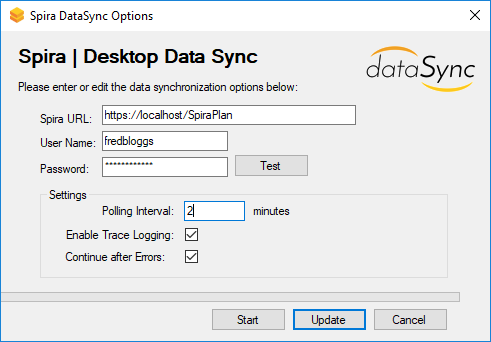
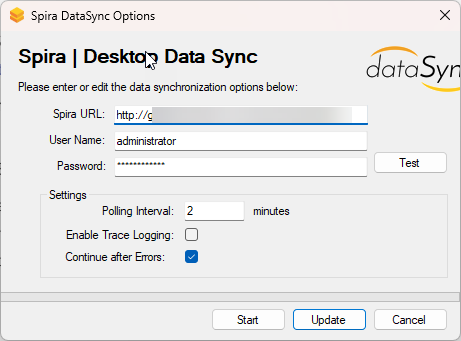
Merge pull request #50 from ninodiasamidze/Datasync-Setup---New
Datasync Setup

Pull request: Datasync Setup
Rewrite

diff --git a/docs/External-Bug-Tracking-Integration/Setting-up-Data-Synchronization.md b/docs/External-Bug-Tracking-Integration/Setting-up-Data-Synchronization.md
@@ -2,22 +2,40 @@
 !!! abstract "Compatible with SpiraTest, SpiraTeam, SpiraPlan"
 
 ## Introduction
-To use any of Inflectra's data sync integrations, you need a special data sync service. This lives outside of Spira and the application it is syncing with. The data sync service needs to run 24/7 to keep everything in sync. It needs to be able to "see" both applications. In addition to the service, there are dedicated plugins for the most popular third-party applications.These plugins work with the data sync service to manage all communication between Spira and the application(s) it syncs with.
 
-We provide you with three different options for this service to sync things for you: 
+To enable data synchronization between Spira and external bug-tracking or agile planning tools, Inflectra utilizes a dedicated Data Synchronization Service. 
 
-- **Cloud** with "Spira Datasync", which runs in Inflectra's cloud
-- built-in **service** with on premise Spira
-- as a standalone "**Desktop** Datasync" application you run on your own server
+This service operates independently of both Spira and your external application. It runs continuously in the background, meaning it must have network access to communicate with both systems simultaneously and needs to run 24/7 to keep everything in sync.
 
-This guide explains what option is right for you, and then gives how to instructions for each of the above 3 options.
+While the service acts as the core engine, it relies on application-specific plugins (such as those for Jira, Azure DevOps, or GitLab). These plugins work alongside the DataSync service to translate the data and manage the exact communication protocols between Spira and your chosen third-party tool.
 
-!!! warning
-    After completing the relevant steps in this guide, make sure to refer to the documentation on this site for the specific application you are syncing with. That will explain how to configure Spira itself for the data sync to work correctly for you.
+Depending on your hosting environment, Inflectra provides three distinct ways to deploy data synchronization:
 
-## Which option to choose
-The table below explains the different options available, as well the option we recommend for each use case. The uses cases vary based on where your Spira and the application Spira is syncing with live (in the cloud or managed by you on premise). 
+- **Cloud Spira DataSync:** A fully managed service that runs directly within Inflectra's secure cloud environment.
+- **On-premisess DataSync Service:** A built-in, background Windows Service included with on-premisess Spira installations.
+- **Desktop DataSync:** A standalone Windows application with a visual interface that you can install and run on your own local server or workstation.
 
+This guide will help you determine which of these three options best fits your architecture and then provide step-by-step instructions for setting up your chosen method.
+
+!!! warning 
+    Getting the service running is only the first half of the integration process. After completing the relevant setup steps in this guide, you must refer to the specific integration documentation for your external application. That documentation will explain how to configure the actual data mapping rules inside Spira, so the sync functions correctly.
+
+## Prerequisite: The Data Sync Service Account
+
+Regardless of which synchronization method you choose, you must provide valid credentials for the service to authenticate with Spira. 
+
+It is highly recommended that you create a **dedicated "Service Account"** user in Spira specifically for this purpose.
+
+To function correctly, this Spira user must meet the following criteria:
+
+- Active Status: The account must be active and have login access to Spira.
+- Dedicated Exclusivity: Do not use the personal credentials of a human team member. A dedicated service account ensures that changes made by the integration are clearly marked in the audit logs (e.g., "Updated by DataSync"), preventing confusion and making troubleshooting much easier.
+- Product Roles: The user must be explicitly added as a member of every Spira product you intend to synchronize.
+- Proper Product Roles: The user must be assigned a Product Role with sufficient permissions to view, create, and modify all artifacts involved in the sync. For example, if you are syncing bugs, the user needs "Create" and "Modify" permissions for Incidents. If they lack these permissions, the sync will fail when trying to write data.
+
+## Choosing Your Synchronization Method
+
+The table below explains the different options available, as well the option we recommend for each use case. The best option depends entirely on where your instance of Spira and your external application are hosted.
 
 | Spira Location | Application to sync with | Recommended data sync option | Other possible options |
 | -------------- | ------------------------ | ---------------------------- | ---------------------- |
@@ -26,94 +44,91 @@ The table below explains the different options available, as well the option we 
 | On premise     | Cloud                    | Datasync **service**         | **Desktop** Datasync   |
 | On premise     | On premise               | Datasync **service**         | **Desktop** Datasync   |
 
-For example, if you use Spira in the cloud, and the application to sync with is also in the cloud, then we recommend you use our Inflectra Cloud data sync. That is because it is the simplest to configure and maintain. However, this may not suit your specific needs, and in that case you can run the Desktop Datasync to manage the data sync yourself, on any Windows machine.
+### Option A: Setup Cloud Spira DataSync
 
-
-## Setup Spira Datasync in the Cloud
 !!! info "Checklist"
+
     - [x] Spira and the application it syncs with are both in the cloud
     - [x] [Add the cloud Spira Datasync service](#add-spira-datasync-to-your-hosted-site) to your hosted Spira site
     - [x] [Configure the Spira Datasync](#configure-the-spira-datasync)
 
- The "Spira DataSync" is a cloud-based data synchronization tool. It is used to synchronize your cloud Spira to a number of cloud-hosted external applications. Setup is straightforward and managed from your **[Customer Area](https://www.inflectra.com/CustomerArea/)** on Inflectra's website. If you do not have access to the customer area, you will need to contact someone at your organization who does have access. They will be able to assist you in configuring any settings.
+Use this option if both your Spira instance and external application are cloud-hosted.
 
-??? question "What is the Inflectra Customer Area?"
-    The [Customer Area](https://www.inflectra.com/CustomerArea/) is your organization's dedicated portal on the Inflectra website for managing your account and subscriptions with us. It is used to:
+The "Spira DataSync" is Inflectra's built-in, cloud-based synchronization tool. It requires no installation, runs on our secure servers, and is managed directly from your [Customer Area](https://www.inflectra.com/CustomerArea) on the Inflectra website.
 
-    - make purchases
-    - change contact information
-    - change subscriptions
-    - configure addons like the "Spira DataSync", Inflectra.ai, or Rapise floating licenses
+!!! info "What is the Inflectra Customer Area?"
 
-    Access to the [Customer Area](https://www.inflectra.com/CustomerArea/) is restricted to very limited set of authorized people in an organization. 
+    The [Customer Area](https://www.inflectra.com/CustomerArea) is your organization's dedicated portal on the Inflectra website for managing your account and subscriptions with us. It is used to make purchases, update contact information, and configure add-ons like the DataSync.
 
-### Add Spira Datasync to your hosted site 
-The Spira Datasync is an optional feature you can add to your cloud-hosted Spira. You can get this feature for trials (free) and production subscriptions (nominal monthly charge). 
+    **Note**: Access to the [Customer Area](https://www.inflectra.com/CustomerArea) is restricted to authorized billing and technical administrators in your organization. If you cannot log in, you will need to ask an authorized administrator to perform these steps.
+
+#### Step 1: Add the Service to your Subscription
+
+The Spira Datasync is an optional feature you can add to your cloud-hosted Spira. You can get this feature for trials (free) and production subscriptions (nominal monthly charge).
 
 If you want, add the Spira Datasync when signing up for the trial or production site.
-![](img/Setting_up_Data_Synchronization_5.png)
 
-Or add it at any time from the Customer Area:
-- find the "My Cloud Subscriptions" section
-- click "Customize" next to the subscription you want to add the Spira Datasync to
-- add the Spira Datasync
+![Add Optional Features](img/Setting_up_Data_Synchronization_5.png)
 
-![](img/Setting_up_Data_Synchronization_5b.png)
+Or add it at any time from the Customer Area: - find the "My Cloud Subscriptions" section - click "Customize" next to the subscription you want to add the Spira Datasync to - add the Spira Datasync
 
-### Configure the Spira Datasync
+![My Cloud Subscriptions](img/Setting_up_Data_Synchronization_5b.png)
+
+#### Step 2: Configure the Service
+
 When the Spira Datasync feature has been successfully added to your cloud Spira, you need to configure it:
 
 - go to the Customer Area at inflectra.com
 - find the "My Cloud Subscriptions" section
 - click the "Configure" button on the Spira Datasync row
 
-![](img/Setting_up_Data_Synchronization_6.png)
+![My Cloud Subscriptions1](img/Setting_up_Data_Synchronization_6.png)
 
-- enter the login and password for a user in your Spira instance (see [guidelines below](#what-user-to-use-for-datasync))
-
-![](img/Setting_up_Data_Synchronization_7.png)
-
+- enter the login and password for a user in your Spira instance (see guidelines below)
 - click the "Test" button to verify the credentials
 - make sure the "Active" flag is checked
 - click "Save"
 
-Now that the cloud configuration is done, you need to complete the datasync setup in Spira itself. These steps will be specific to the application you are syncing with, and can be found on the navigation system for this site. 
+![Test Synchronization](img/Setting_up_Data_Synchronization_7.png)
 
+Now that the cloud configuration is done, you need to complete the datasync setup in Spira itself. These steps will be specific to the application you are syncing with, and can be found on the navigation system for this site.
 
-## Setup the Datasync service on premise
+### Option B: Setup the On-premises DataSync Service
+
 !!! info "Checklist"
+
     - [x] Spira is on premise OR you have installed the standalone service
-    - [x] [Download the plugin](#download-plugins-for-the-service) for the application you will sync with
-    - [x] [Configure the service](#configure-the-service)
-    - [x] [Start the Datasync service](#start-the-datasync-service)
+    - [x] [Download the plugin(s)](#step-1-download-the-required-plugins) for the applications Spira will sync with
+    - [x] [Configure the service](#step-2-configure-the-service_1)
+    - [x] [Start the Datasync service](#step-3-start-the-windows-service)
+ 
+Use this option if your Spira instance is hosted on-premises, OR if you are using Cloud Spira but need to connect to an on-premisess external application located securely behind your company firewall.
 
-When you install Spira on-premise, it comes with a built-in datasync service for Windows. This lets you sync Spira with other applications. If you are using Spira in the cloud, please:
+When you install Spira on-premises, a built-in background Windows Service is included. If you are using Cloud Spira but need to run the service locally, download the "Standalone Data-Synchronization Windows Service" from the Inflectra website, unzip it, and run the InstallService.bat script as an Administrator.
 
-- [download](https://www.inflectra.com/SpiraPlan/Downloads.aspx) the "Standalone Data-Synchronization Windows Service" onto a Windows machine
-- unzip it 
-- run the "InstallService.bat" file to install the service and the config file 
+#### Step 1: Download the Required Plugins
 
-### Download Plugins for the service
-Each application Spira syncs with has a dedicated plugin. This is required for the datasync to work. If the service is like traffic signals, the plugin is the GPS app, making sure the right data goes to the right place in the right way. 
+The core service acts as the engine, but it requires a specific plugin to understand the API of the external application it is talking to.
 
-- Go to the [downloads page on the Inflectra website](https://www.inflectra.com/SpiraPlan/Downloads.aspx#BugTrackers)
-- Find the plugin for the application you want to sync Spira with
-- Download the plugin as a zip file to the server where Spira is installed
-- Unzip the zip file, which will contain a number of DLL files
-- Move the DLL files into the folder `{root folder of where Spira is installed}\DataSync`. By default this is likely to be `C:\Program Files (x86)\SpiraPlan\DataSync`, but it may vary based on your setup
-- Check that the folder contains files called "DataSyncService.exe" and "DataSyncService.exe.config"
+1. Navigate to the [Downloads page on the Inflectra website](https://www.inflectra.com/SpiraPlan/Downloads.aspx#BugTrackers).
+2. Download the appropriate plugin for your external application as a .zip file to the server where Spira is installed.
+3. Extract the .zip file to reveal several .dll files.
+4. Move these .dll files `{root folder of where Spira is installed}\DataSync`. By default, this is usually: `C:\Program Files (x86)\SpiraPlan\DataSync`, but it may vary based on your setup
+5. Verify that the folder now contains files called `DataSyncService.exe` and `DataSyncService.exe.config`, alongside your new plugin files.
+6. Make sure files are not blocked by Windows due to security
 
-### Configure the Service
-The datasync service is configured in an XML based text file. This tells the service, once running, where to look and what to do.
+#### Step 2: Configure the Service
 
-- Go to the folder `{root folder of where Spira is installed}\DataSync`. By default this is likely to be `C:\Program Files (x86)\SpiraPlan\DataSync`, but it may vary based on your setup
-- Find the file called "DataSyncService.exe.config"
-- Open this file in a text editor (it should look similar to below)
+The Windows Service is configured using an XML based text file. This tells the service, once running, where to look and what to do.
+    
+- Open your `DataSync installation folder of where Spira is installed}\DataSync` and 
+- locate the file named DataSyncService.exe.config.
+- Open this file in a text editor (you may need to run Notepad as an Administrator to save changes).
 
-```xml
+``` XML
 <?xml version="1.0" encoding="utf-8"?>
 <configuration>
-	<configSections>
+    <configSections>
   <sectionGroup name="applicationSettings" type="System.Configuration.ApplicationSettingsGroup, System, Version=2.0.0.0, Culture=neutral, PublicKeyToken=b77a5c561934e089" >
    <section name="Inflectra.SpiraTest.DataSyncService.Properties.Settings" type="System.Configuration.ClientSettingsSection, System, Version=2.0.0.0, Culture=neutral, PublicKeyToken=b77a5c561934e089" requirePermission="false" />
   </sectionGroup>
@@ -141,92 +156,70 @@ The datasync service is configured in an XML based text file. This tells the ser
   </Inflectra.SpiraTest.DataSyncService.Properties.Settings>
  </applicationSettings>
 </configuration>
-
 ```
+- Update the following <value> tags to match your environment:
 
-As you can see above, there are various `<setting>` fields that have a name and then below them a `<value>`. You need to change the *values* for certain *names*:
+- **PollingInterval:** The frequency (in milliseconds) the service waits before initiating a new synchronization cycle. The standard configuration is 300000 (5 minutes). However, if you need changes to reflect more quickly in the external system, you can safely lower this to 60000 (1 minute). Setting this value to anything less than 60000 milliseconds will not make the sync run any faster, so 1 minute is the functional minimum. Note that this interval indicates the wait time before the engine fires a new cycle, not the exact amount of time it will take for a change to appear (as data processing time must also be factored in). The system only starts this timer after the previous cycle has completely finished.
+- **WebServiceUrl:** The base URL to your Spira instance. This is the exact URL you use to access the Spira login screen in your web browser (e.g., http://yourserver/SpiraPlan).
+- **Login & Password:** The credentials for your dedicated Spira service account.
 
-- **name="PollingInterval"**: this tells the service how frequently to check for new data. The value is in milliseconds. We recommend going for 2-5 minutes (e.g. `<value>300000</value>` for 5 minutes). The larger the number, the longer the gap between the service checking for data and the lower the network and server overhead. For two-way syncs, go on the lower end of the range (2 minutes) to avoid the chance of conflicts
-- **name="WebServiceUrl"**: this is the base URL to your Spira instance. It is typically of the form `http://<server name\>/SpiraPlan`. When you go to this URL in the server's browser, the Spira login page should appear.
-- **name="Login"** and **name="Password"**: enter the login and password for a user in your Spira instance (see [guidelines below](#what-user-to-use-for-datasync))
+??? info "Using On-premises TFS:" 
 
+    If you are using the MS-TFS plugin on premise, you will also need to switch over your IIS application pool running Spira to "Enable 32-bit Applications. 
+    
+    You will also need to download the recompiled 32-bit version of the DataSyncService.exe application from our support knowledge base: [KB14 - Using SpiraTeam Data Synchronization with TFS on a 64-bit system](https://www.inflectra.com/Support/KnowledgeBase/KB14.aspx).
 
-??? info "Using on premise TFS"
-    If you are using the MS-TFS plugin on premise, you will also need to switch over your IIS application pool running Spira to "Enable 32-bit Applications. You will also need to download the recompiled 32-bit version of the DataSyncService.exe application from our support knowledge base - [KB14 - Using SpiraTeam Data Synchronization with TFS on a 64-bit system](https://www.inflectra.com/Support/KnowledgeBase/KB14.aspx).
+#### Step 3: Start the Windows Service
 
+By default, the Windows Service is set to "Manual" startup to conserve resources until you are ready.
 
-### Start the Datasync service
-By default, the datasync service is not running. This is to conserve system resource. To make sure that the service is running and will always run:
+1. Open the Services application in Windows (services.msc).
+2. Locate the SpiraTest Data Sync Service.
+3. Right-click the service, open Properties, and change the Startup Type to Automatic (so it survives server reboots).
+4. Click Start to run the service immediately.
 
-- Open the Services application in Windows
-- Find the `SpiraTest Data Sync Service`
-- Right click on the service and set the start up to "Automatic"
-- Make sure the service has started - manually start it if needed
+![Starting Service](img/Setting_up_Data_Synchronization_10.png)
 
-![](img/Setting_up_Data_Synchronization_10.png)
+### Option C: Setup the Desktop DataSync
 
-Now that the datasync service configuration is done, you need to complete the datasync setup in Spira itself. These steps will be specific to the application you are syncing with, and can be found on the navigation system for this site. 
+The "Desktop DataSync" is a standalone Windows application with a visual UI. It works independently of Spira and is especially useful if you want to monitor the sync manually, or if your Spira is in the cloud but the external application is hosted on a local, firewall-protected network.
 
-## Setup the Desktop Datasync
 !!! info "Checklist"
-    - [x] [Install the Desktop Datasync](#install-the-desktop-datasync) on a Microsoft Windows device
-    - [x] [Download the plugin(s)](#download-plugins-for-the-desktop-datasync) for the applications Spira will sync with
-    - [x] [Configure the desktop datasync](#configure-the-desktop-datasync)
 
+    - [x] [Install the Desktop Datasync on a Microsoft Windows device](#step-1-install-the-desktop-datasync-application)
+    - [x] [Download the plugin(s) for the applications Spira will sync with](#step-2-download-the-required-plugins)
+    - [x] [Configure the desktop datasync](#step-3-configure-and-run-via-the-ui)
 
-The "Desktop Datasync" is a standalone Windows application than can be used to run the various datasync plugins. It works independently of Spira, and works with both cloud and on-premise instances of Spira. It is especially useful if your Spira is in the cloud, but the application it is syncing with is not. It can be used in other scenarios as well.
+#### Step 1: Install the Desktop DataSync Application
 
-### Install the Desktop Datasync
-- Go to the [downloads page on the Inflectra website](https://www.inflectra.com/SpiraPlan/Downloads.aspx)
-- Find the Windows Installation (MSI) package for the Desktop Datasync (there are 64-bit and 32-bit versions - unless you need to sync with on-premise TFS, use the 64-bit version)
-- Download the installer onto the machine the Desktop Datasync will run from 
-- Go through the installation wizard
+1. Navigate to the [Downloads page on the Inflectra website](https://www.inflectra.com/SpiraPlan/Downloads.aspx).
+2. Download the Windows Installer (MSI) package for the Desktop DataSync. (Use the standard 64-bit version unless you are syncing with legacy on-premises TFS).
+3. Run the installer on the Windows machine that will host the synchronization.
 
-![](img/Setting_up_Data_Synchronization_11.png)
+![Desktop Datasync](img/Setting_up_Data_Synchronization_11.png)
 
-### Download Plugins for the Desktop Datasync
-Each application Spira syncs with has a dedicated plugin. This is required for the datasync to work. If the desktop datasync is like traffic signals, the plugin is the GPS app, making sure the right data goes to the right place in the right way. 
+#### Step 2: Download the Required Plugins
 
-- Go to the [downloads page on the Inflectra website](https://www.inflectra.com/SpiraPlan/Downloads.aspx#BugTrackers)
-- Find the plugin for the application you want to sync Spira with
-- Download the plugin as a zip file to the server where Spira is installed
-- Unzip the zip file, which will contain a number of DLL files
-- Move the DLL files into the folder `{root folder of where Desktop Datasync is installed}`. This is likely to be `C:\Program Files (x86)\Inflectra\Spira Desktop DataSync`, but it may vary based on your setup
-- Check that the folder contains files called "DataSyncService.exe" and "DataSyncService.exe.config"
+1. Download the specific plugin .zip file for your external application from the Inflectra website.
+2. Extract the .dll files.
+3. Move the .dll files into the root folder where you installed the Desktop DataSync (e.g., C:\Program Files (x86)\Inflectra\Spira Desktop DataSync).
+4. Make sure files are not blocked by Windows due to security
 
-![](img/DesktopDataSync.png)
+![DataSync Folder](img/DesktopDataSync.png)
 
-### Configure the Desktop Datasync
-- Go to Start > Programs > Inflectra > Desktop Datasync. This launches the application and shows its options screen
+#### Step 3: Configure and Run via the UI
 
-![](img/Setting_up_Data_Synchronization_12.png)
+- Go to Start > Programs > Inflectra > Desktop Datasync to launch the application interface.
+- Fill out the configuration options:
 
+    - Spira URL: The base URL to your Spira instance (e.g., https://mycompany.spiraservice.net).
+    - Username & Password: The credentials for your dedicated Spira service account. Click Test to validate the connection.
+    - Polling Interval: Recommended 2-5 minutes.
+    - Enable Trace Logging: Leave unchecked for normal use. Enabling this creates highly detailed logs of every data transaction, which is excellent for troubleshooting but will quickly fill up your Windows Event Viewer logs.
+    - Continue After Errors: Check this if you want the sync to push past individual item errors (e.g., one specific bug failing to sync) rather than halting the entire synchronization process.
 
-![](img/Setting_up_Data_Synchronization_13.png)
+![Desktop Datasync](img/Setting_up_Data_Synchronization_13.png)
 
-As you can see above, there are a number of options that you can configure:
+- Click Update to save your settings without starting first. Start to save and begin syncing immediately.
 
-- **Spira URL**: enter the URL of the Spira this is the base URL to your Spira instance. It is typically of the form `http://<server name\>/SpiraPlan`. When you go to this URL in the server's browser, the Spira login page should appear.
-- **User Name** and **Password"**: enter the login and password for a user in your Spira instance (see [guidelines below](#what-user-to-use-for-datasync)) and click Test to validate
-- **PollingInterval**: this tells the service how frequently to check for new data. We recommend going for 2-5 minutes. The larger the number, the longer the gap between the service checking for data and the lower the network and server overhead. For two-way syncs, go on the lower end of the range (2 minutes) to avoid the chance of conflicts
-- **Enable Trace Logging**: this is not normally required, but can be useful when verifying data mappings. Leaving it on will fill up the application log, so leave it unchecked in normal use)
-- **Continue After Errors**: if you wish to stop as soon as the Desktop Datasync gets to an error, make sure this is checked. This can be useful to avoid one wrong thing snowballing to many wrong things, but in normal use, one error should not disrupt the whole sync
-
-Once you are happy with the options, click "Update" to save the options, or "Start" to save things and start the datasync immediately. 
-
-Note: if you close the application window, the application will still be running. it ca nbe accessed from the system tray
-
-![](img/Setting_up_Data_Synchronization_15.png)
-
-You can then use the right-click context menu to start synchronization, stop synchronization, view the status (if synchronization is running) or exit the application altogether.
-
-During synchronization, any errors will be logged to the Windows Application Event Log and you can use those logs to diagnose any issues connecting to the external bug-tracker or any data mapping configuration changes that need to be made.
-
-## What user to use for datasync
-!!! question "What user to use for Datasync"
-    This user is used for all data syncing so it is important to pick the right user with the right permissions. To do so, the user should be:
-
-  - an active user in Spira
-  - a "service" account just for data syncing. This means that the user is not used for other purposes (so do not use credentials of someone who uses the tool) - this will help manage permissions and also help with auditing and troubleshooting
-  - a member of all products in Spira you need to sync
-  - using a product role with enough permission to do everything required. They should be able to view, create and modify all artifacts used by the data sync. This is typically releases, incidents, documents, and requirements, but may include other artifacts like test cases or tasks.
+**Note:** If you close the application window, it will minimize and continue running in the background. It can be accessed via the Windows system tray. You can use the right-click context menu from the system tray to start/stop the synchronization, view the current status, or exit the application altogether. Any synchronization errors generated by the Desktop DataSync will be logged to the standard Windows Application Event Log, which you can use to diagnose mapping issues.